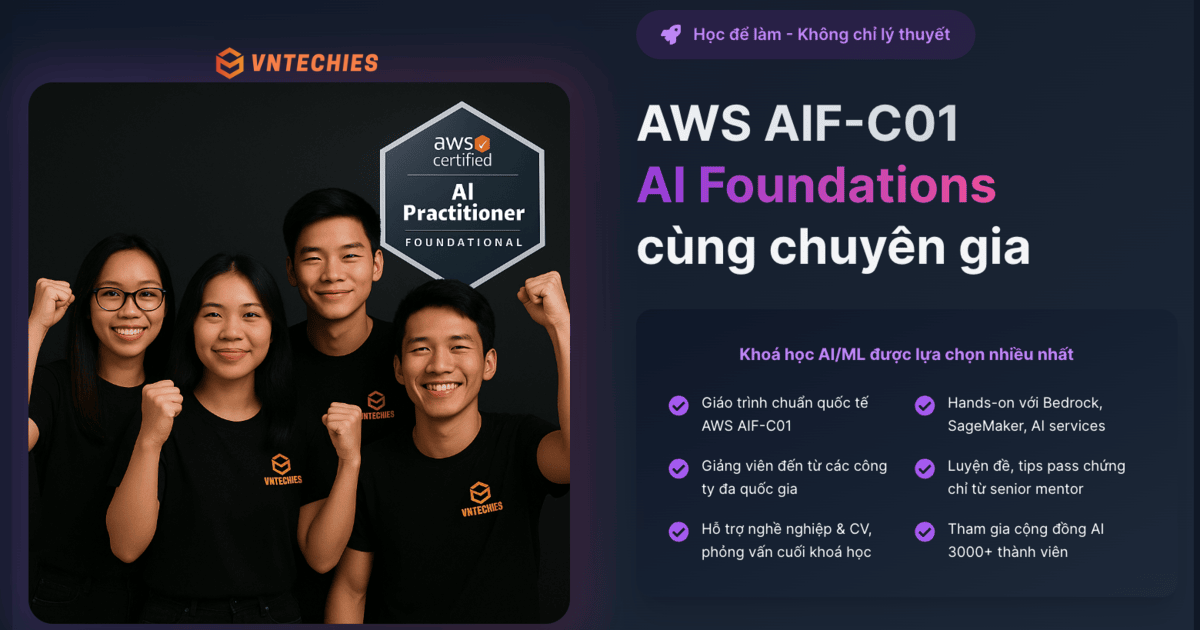
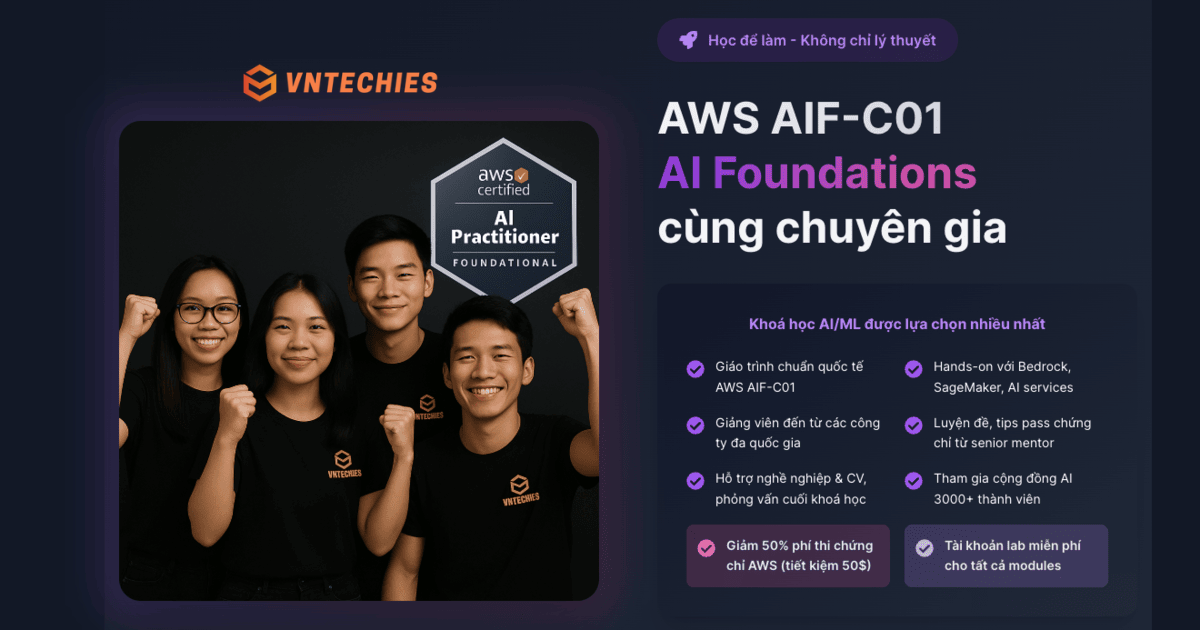
fix seo (#88)
* fix seo

* fix SEO and discount

---------

diff --git a/layouts/CourseAIF.js b/layouts/CourseAIF.js
@@ -11,6 +11,7 @@ import {
   FaLaptopCode,
   FaCertificate,
   FaRocket,
+  FaDollarSign,
 } from 'react-icons/fa'
 import Link from 'next/link'
 import CourseRegistrationForm from '../components/CourseRegistrationForm'
@@ -188,6 +189,18 @@ export default function CourseSpecial({ frontMatter, mentorDetails }) {
                       Tham gia cộng đồng AI 3000+ thành viên
                     </span>
                   </div>
+                  <div className="flex items-start gap-3 rounded-lg bg-pink-500/20 p-3">
+                    <FaCheckCircle className="mt-1 h-5 w-5 flex-shrink-0 text-pink-400" />
+                    <span className="text-sm font-semibold leading-relaxed text-pink-100">
+                      Giảm 50% phí thi chứng chỉ AWS (tiết kiệm 50$)
+                    </span>
+                  </div>
+                  <div className="flex items-start gap-3 rounded-lg bg-purple-400/20 p-3">
+                    <FaCheckCircle className="mt-1 h-5 w-5 flex-shrink-0 text-purple-300" />
+                    <span className="text-sm font-semibold leading-relaxed text-purple-100">
+                      Tài khoản lab miễn phí cho tất cả modules
+                    </span>
+                  </div>
                 </div>
               </div>
 
@@ -328,8 +341,8 @@ export default function CourseSpecial({ frontMatter, mentorDetails }) {
             </div>
           </div>
 
-          {/* 3 Key Differentiators */}
-          <div className="grid gap-8 md:grid-cols-3">
+          {/* 4 Key Differentiators */}
+          <div className="grid gap-8 md:grid-cols-2 lg:grid-cols-4">
             <div className="rounded-xl bg-gray-50 p-8 shadow-sm dark:bg-gray-800">
               <div className="mb-6 flex h-16 w-16 items-center justify-center rounded-full bg-purple-100 dark:bg-purple-900">
                 <FaUserTie className="h-8 w-8 text-purple-600 dark:text-purple-400" />
@@ -367,6 +380,37 @@ export default function CourseSpecial({ frontMatter, mentorDetails }) {
                 Tham gia cộng đồng VNTechies với hàng ngàn thành viên, cơ hội việc làm và kết nối
                 với các chuyên gia hàng đầu.
               </p>
+            </div>
+
+            <div className="rounded-xl border-2 border-pink-200 bg-gradient-to-br from-pink-50 to-purple-50 p-8 shadow-lg dark:border-pink-800 dark:from-pink-900/20 dark:to-purple-900/20">
+              <div className="mb-6 flex h-16 w-16 items-center justify-center rounded-full bg-gradient-to-r from-pink-500 to-purple-500">
+                <span className="text-2xl">💰</span>
+              </div>
+              <h3 className="mb-4 text-xl font-bold text-gray-900 dark:text-gray-100">
+                Tiết kiệm chi phí đáng kể
+              </h3>
+              <div className="space-y-2 text-gray-600 dark:text-gray-300">
+                <div className="flex items-center gap-2">
+                  <span className="text-pink-500">•</span>
+                  <span className="text-sm">
+                    Giảm 50% phí thi: <strong>50 USD</strong>
+                  </span>
+                </div>
+                <div className="flex items-center gap-2">
+                  <span className="text-purple-500">•</span>
+                  <span className="text-sm">
+                    Lab miễn phí: <strong>100 USD</strong>
+                  </span>
+                </div>
+                <div className="mt-3 rounded-lg bg-gradient-to-r from-pink-100 to-purple-100 p-3 dark:from-pink-900/30 dark:to-purple-900/30">
+                  <div className="text-center font-bold text-gray-900 dark:text-gray-100">
+                    Tổng: 150 USD
+                  </div>
+                  <div className="text-center text-sm text-gray-600 dark:text-gray-400">
+                    ≈ 3.750.000 VNĐ
+                  </div>
+                </div>
+              </div>
             </div>
           </div>
         </div>
@@ -1009,10 +1053,9 @@ export default function CourseSpecial({ frontMatter, mentorDetails }) {
             </div>
           </div>
 
-          <div className="mt-12 text-center">
+          <div className="mt-12 space-y-4 text-center">
             <p className="text-lg text-gray-600 dark:text-gray-300">
-              💰 <strong>ROI dự kiến:</strong> Tăng productivity và cơ hội nghề nghiệp mới. 1 tháng
-              lương mang lại giá trị mang suốt đời
+              💰 <strong>ROI dự kiến:</strong> Tăng productivity và cơ hội nghề nghiệp mới
             </p>
           </div>
         </div>
@@ -1144,18 +1187,29 @@ export default function CourseSpecial({ frontMatter, mentorDetails }) {
             Đăng ký ngay để nhận ưu đãi Early Bird và bộ tài liệu luyện thi đầy đủ!
           </p>
 
-          <div className="mb-8 flex flex-wrap justify-center gap-4">
-            <div className="rounded-full bg-white/20 px-4 py-2 text-sm font-medium backdrop-blur">
-              ✓ Hands-on AI/ML
+          <div className="mb-8 space-y-4">
+            <div className="flex flex-wrap justify-center gap-4">
+              <div className="rounded-full bg-white/20 px-4 py-2 text-sm font-medium backdrop-blur">
+                ✓ Hands-on AI/ML
+              </div>
+              <div className="rounded-full bg-white/20 px-4 py-2 text-sm font-medium backdrop-blur">
+                ✓ 100% tỷ lệ pass
+              </div>
+              <div className="rounded-full bg-white/20 px-4 py-2 text-sm font-medium backdrop-blur">
+                ✓ Mentor MNC
+              </div>
+              <div className="rounded-full bg-white/20 px-4 py-2 text-sm font-medium backdrop-blur">
+                ✓ Cam kết đồng hành
+              </div>
             </div>
-            <div className="rounded-full bg-white/20 px-4 py-2 text-sm font-medium backdrop-blur">
-              ✓ 100% tỷ lệ pass
-            </div>
-            <div className="rounded-full bg-white/20 px-4 py-2 text-sm font-medium backdrop-blur">
-              ✓ Mentor MNC
-            </div>
-            <div className="rounded-full bg-white/20 px-4 py-2 text-sm font-medium backdrop-blur">
-              ✓ Cam kết đồng hành
+
+            <div className="flex flex-wrap justify-center gap-4">
+              <div className="rounded-full bg-pink-400/90 px-6 py-3 text-sm font-bold text-white shadow-lg">
+                💰 Giảm 50% phí thi (50 USD)
+              </div>
+              <div className="rounded-full bg-purple-400/90 px-6 py-3 text-sm font-bold text-white shadow-lg">
+                🎁 Lab miễn phí (100 USD)
+              </div>
             </div>
           </div>
 

diff --git a/components/SEO.js b/components/SEO.js
@@ -199,6 +199,8 @@ export const CourseSEO = ({
   canonicalUrl,
   images = [],
   showCanonical,
+  price,
+  duration,
 }) => {
   const router = useRouter()
   const publishedAt = new Date(date).toISOString()
@@ -250,6 +252,10 @@ export const CourseSEO = ({
       itemListElement: items,
     }
   } else {
+    // Parse price from Vietnamese format (e.g., "8.000.000 VNĐ" -> "8000000")
+    const parsedPrice = price ? price.replace(/[^0-9]/g, '') || '0' : '0'
+    const currency = price && price.includes('VNĐ') ? 'VND' : 'USD'
+
     structuredData = {
       '@context': 'https://schema.org',
       '@type': 'Course',
@@ -259,28 +265,41 @@ export const CourseSEO = ({
       },
       name: title,
       description: summary,
-      provider: provider,
-      hasCourseInstance: [
-        {
-          '@type': 'CourseInstance',
-          courseMode: 'online',
-          startDate: date ? new Date(date).toISOString() : undefined,
-          endDate: lastmod ? new Date(lastmod).toISOString() : undefined,
-          url: url,
+      provider: {
+        '@type': 'Organization',
+        name: 'VNTechies',
+        url: 'https://vntechies.dev',
+        logo: {
+          '@type': 'ImageObject',
+          url: `${siteMetadata.siteUrl}${siteMetadata.siteLogo}`,
         },
-      ],
-      offers: [
-        {
-          '@type': 'Offer',
-          url: url,
-          price: '0',
-          priceCurrency: 'USD',
-          availability: 'https://schema.org/InStock',
+      },
+      hasCourseInstance: {
+        '@type': 'CourseInstance',
+        courseMode: 'online',
+        startDate: date
+          ? new Date(date).toISOString().split('T')[0]
+          : new Date().toISOString().split('T')[0],
+        location: 'Vietnam',
+        instructor: {
+          '@type': 'Organization',
+          name: 'VNTechies',
         },
-      ],
+      },
+      offers: {
+        '@type': 'Offer',
+        url: url,
+        price: parsedPrice,
+        priceCurrency: currency,
+        availability: 'https://schema.org/InStock',
+        validFrom: new Date().toISOString().split('T')[0],
+      },
+      ...(duration && { timeRequired: duration }),
+      ...(featuredImages.length > 0 && { image: featuredImages[0].url }),
     }
   }
   const twImageUrl = featuredImages[0].url
+  const ogImageUrl = featuredImages[0].url
 
   return (
     <>
@@ -288,7 +307,7 @@ export const CourseSEO = ({
         title={title}
         description={summary}
         ogType="course"
-        ogImage={featuredImages}
+        ogImage={ogImageUrl}
         twImage={twImageUrl}
         canonicalUrl={canonicalUrl}
         showCanonical={showCanonical}

diff --git a/pages/courses/[...slug].js b/pages/courses/[...slug].js
@@ -2,6 +2,8 @@ import fs from 'fs'
 import generateRss from '@/lib/generate-rss'
 import { MDXLayoutRenderer } from '@/components/MDXComponents'
 import { formatSlug, getAllFilesFrontMatter, getFileBySlug, getFiles } from '@/lib/mdx'
+import { CourseSEO } from '@/components/SEO'
+import siteMetadata from '@/data/siteMetadata'
 import path from 'path'
 
 const DEFAULT_LAYOUT = 'CourseSimple'
@@ -83,18 +85,41 @@ export default function Course({
   next,
 }) {
   const { mdxSource, toc, frontMatter } = post
+  const { title, summary, date, lastmod, images, slug, index, price, startDate, duration } =
+    frontMatter
+
+  // Generate proper SEO data
+  const courseUrl = `${siteMetadata.siteUrl}/courses/${slug}`
+  const courseImages = images && images.length > 0 ? images : [siteMetadata.socialBanner]
+  const courseDescription = summary || `${title} - Khóa học tại VNTechies`
+  const courseTitle = `${title} | VNTechies`
+
   return (
-    <MDXLayoutRenderer
-      layout={frontMatter.layout || DEFAULT_LAYOUT}
-      toc={toc}
-      mdxSource={mdxSource}
-      frontMatter={frontMatter}
-      authorDetails={authorDetails}
-      mentorDetails={mentorDetails}
-      posts={posts}
-      otherCourses={otherCourses}
-      prev={prev}
-      next={next}
-    />
+    <>
+      <CourseSEO
+        title={courseTitle}
+        summary={courseDescription}
+        date={startDate || date}
+        lastmod={lastmod}
+        url={courseUrl}
+        images={courseImages}
+        courseItems={index === 0 ? posts : null}
+        canonicalUrl={courseUrl}
+        price={price}
+        duration={duration}
+      />
+      <MDXLayoutRenderer
+        layout={frontMatter.layout || DEFAULT_LAYOUT}
+        toc={toc}
+        mdxSource={mdxSource}
+        frontMatter={frontMatter}
+        authorDetails={authorDetails}
+        mentorDetails={mentorDetails}
+        posts={posts}
+        otherCourses={otherCourses}
+        prev={prev}
+        next={next}
+      />
+    </>
   )
 }

diff --git a/layouts/CourseSimple.js b/layouts/CourseSimple.js
@@ -1,7 +1,5 @@
 import Link from '@/components/Link'
 import SectionContainer from '@/components/SectionContainer'
-import { CourseSEO } from '@/components/SEO'
-import siteMetadata from '@/data/siteMetadata'
 import Comments from '@/components/comments'
 import ScrollTopAndComment from '@/components/ScrollTopAndComment'
 import Image from '@/components/Image'
@@ -24,14 +22,6 @@ export default function CourseSimple({
 
   return (
     <SectionContainer>
-      {index === 0 && (
-        <CourseSEO
-          courseItems={posts}
-          url={`${siteMetadata.siteUrl}/courses/${slug}`}
-          {...frontMatter}
-          showCanonical={false}
-        />
-      )}
       <ScrollTopAndComment />
       <article>
         <div className="xl:divide-y xl:divide-gray-200 xl:dark:divide-gray-700">
